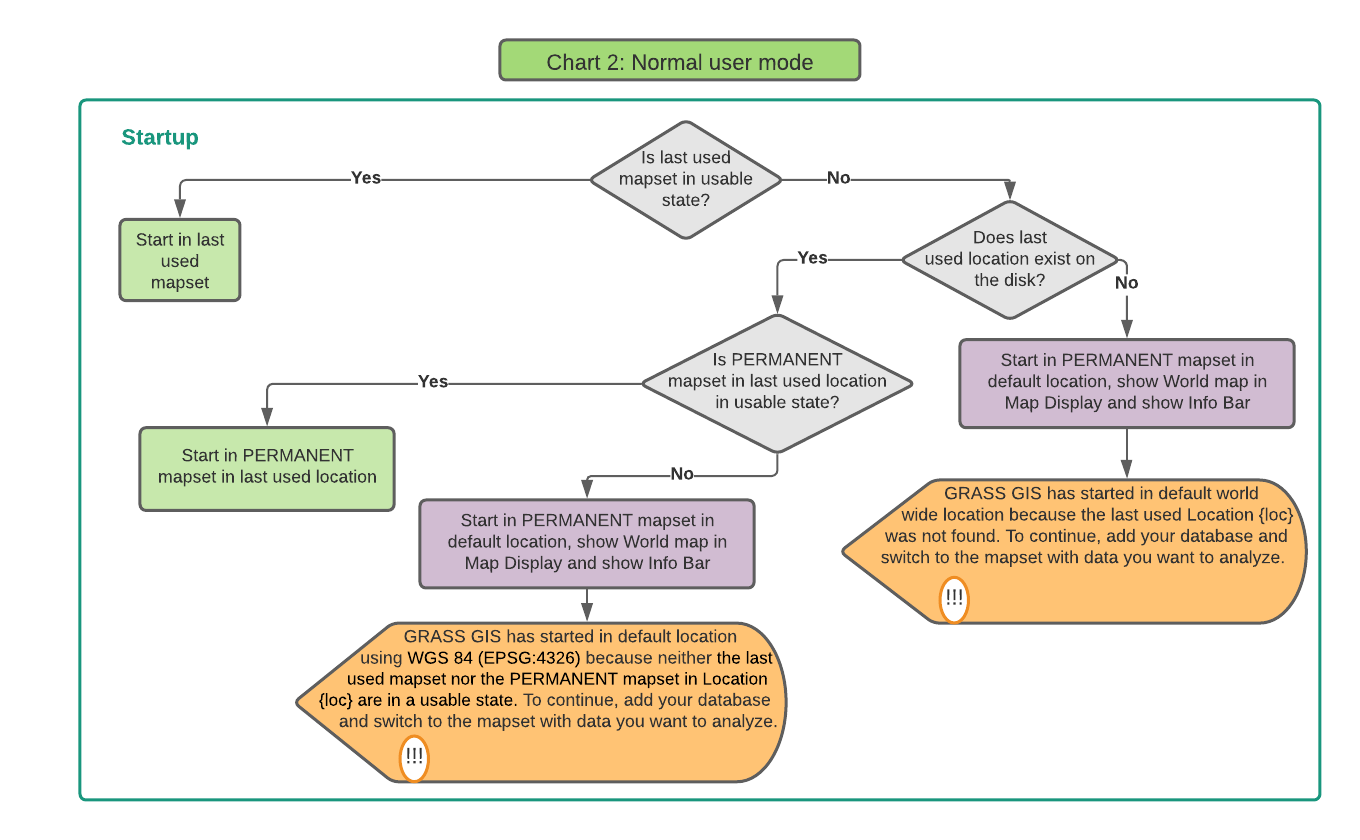
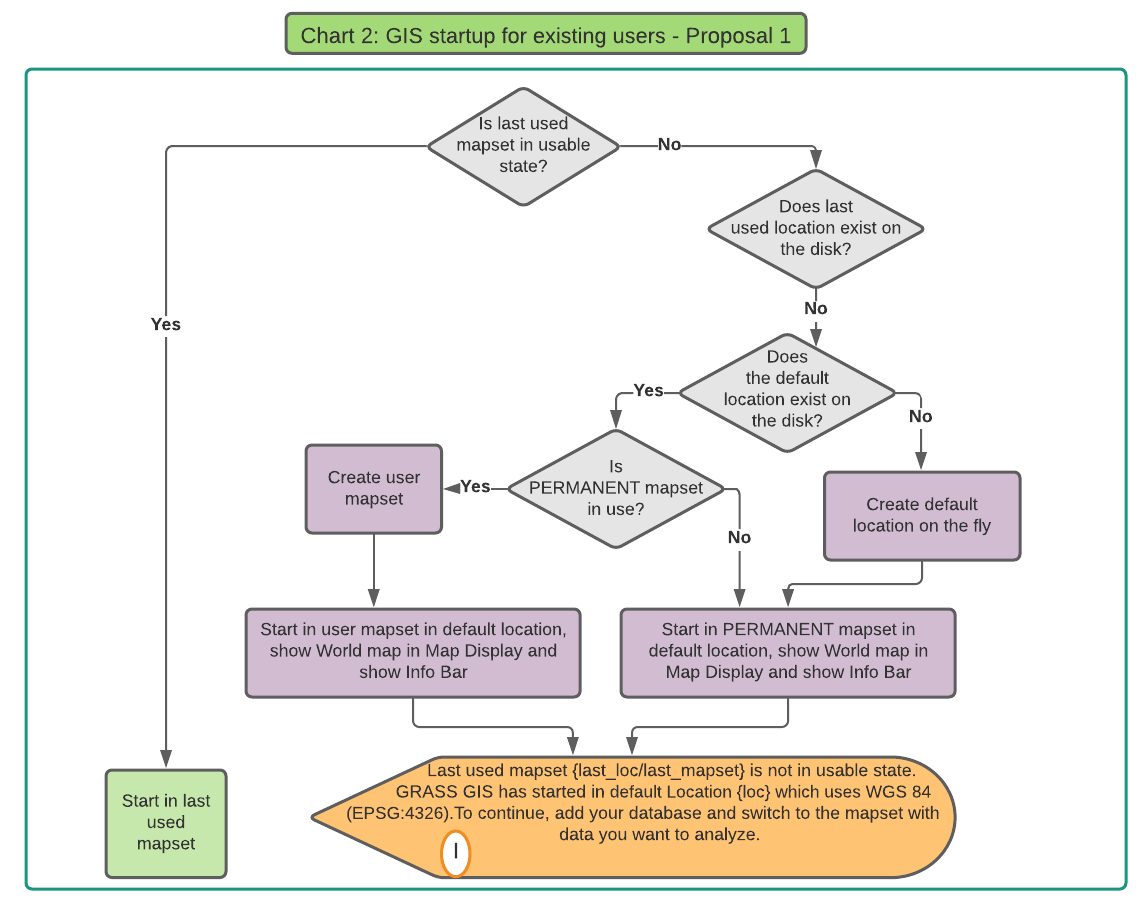
chapter 8 ready for review, introduction is not finished yet

diff --git a/text/linda-kladivova-dp-2021.tex b/text/linda-kladivova-dp-2021.tex
@@ -119,7 +119,7 @@
 
 \large
 \noindent
-The existing GRASS GIS software start-up mechanism could discourage new users from further working with this software or at least make it uncomfortable. This diploma thesis is built on the programming part performed in the summer of 2020 within the international Google Summer of Code program (GSoC) and uses two surveys to evaluate the benefits of significant changes that have taken place. The first part of the work focuses on a survey among intermediate users and compares the startup mechanism of the original GRASS GIS 7.8 version with the new solution introduced after GSoC which during normal startup cancels the concept of the startup window and its role is taken over by Data Catalog. The second part is oriented on newcomers and implements the first-time mode. A survey based on a simple task further examines whether the initial contact of the user with the software when using the first-time mode is more pleasant or not.
+The existing GRASS GIS software startup mechanism could discourage new users from further working with this software or at least make it uncomfortable. This diploma thesis is built on the programming part performed in the summer of 2020 within the international Google Summer of Code program (GSoC) and uses two surveys to evaluate the benefits of significant changes that have taken place. The first part of the work focuses on a survey among intermediate users and compares the startup mechanism of the original GRASS GIS 7.8 version with the new solution introduced after GSoC which during normal startup cancels the concept of the startup window and its role is taken over by Data Catalog. The second part is oriented on newcomers and implements the first-time mode. A survey based on a simple task further examines whether the initial contact of the user with the software when using the first-time mode is more pleasant or not.
 
 \vspace{2ex}
 \begin{Large}
@@ -241,12 +241,15 @@ Firstly I would like to thank my parents very much for their support during my s
 \large
 \setcounter{page}{13}  % nastaví čítač stránek od stránky Úvod na stránku č. 13
 
+\noindent According to the evaluation of the GISGeography journal, GRASS GIS is one of the best software we can meet in the world of open-source GIS software in terms of numerical GIS analysis. The history of GRASS, built for vector and raster geospatial management, geoprocessing, spatial modeling and visualization, dates back to 1982, when its development was started by the United States military. At the time of writing this thesis, the current stable version of the software is version 7.8, but as the number suggests, the planned version 8.0, which will be released in the spring of 2021, will introduce major changes. They are largely related to the GRASS graphical user interface (GUI).
 
+The implementation of changes and new GUI functionalities gradually leading to the breakthrough version 8.0 began in the summer of 2020, when the author participated in the global student program Google Summer of Code (GSoC), which inspires young developers to begin participating in open-source development. As also mentioned in the evaluation of the GISGeography journal, the main disadvantage of GRASS version 7.8 is mainly the clunky and dated user interface, defining projects on start-up and steep learning curve to get started. As we can see, these shorcomings are largely related to the current startup mechanism. So the task of GSoC was to change the sort of unfortunate GRASS startup mechanism so that it would be easier for first-time users to become familiar with GRASS.
 
-%% -------<<< Chapter 1: State of Art in the version 7.8 >>>-------\\%%%%%%%%%%%%%%%%%%%%%%%%%%%%%%%%%%%%
+After the changes within GSoC, the startup screen -  the biggest trick for new users, was partially removed. It means that it appears only in non-standard situations. The main role for the  data organization was taken over by the Data Catalog - a tree object, whose functionality was significantly expanded. Now the possibilities of managing data hiearchy components are even beyond the options previously available in the startup screen. Here, for the first time, a new concept of the default location (say`` demolocation '' in development slang) is introduced, which is offered to every first-time user.
 
+This work therefore follows up on the complex topic of creating a better GRASS GIS startup mechanism. The main part of the work consists of two surveys where the first one consists of two parts. The aim of the first part is to evaluate the benefits of significant changes among the GRASS community and at the same time to propose a final solution of the GRASS startup mechanism for the existing user, so that the old startup screen is permanently removed. The second part of the first survey focuses on the improvement of the startup mechanism for first-time users. It finds out what options of firsti-time help would be preferred in the GRASS community. The second survey then introduces the ``first-time mode'', which extends the concept of the default location with a set of information popups that help the user manage the first steps - creating a new location, importing data, etc. Based on the second survey, the design is modified and subsequently implemented.
 
-Changing the startup mechanism, which will make it easier for first-time users to become familiar with GRASS, has been one of the long-term goals of the development community around this software. This whole topic provoked heated discussions mainly because it was not clear whether to keep the startup screen or not.
+NOT FINISHED YET
 
 
 %% -------<<< Chapter 1: State of Art in the version 7.8 >>>-------\\%%%%%%%%%%%%%%%%%%%%%%%%%%%%%%%%%%%%
@@ -1299,7 +1302,7 @@ Examples of nominal qualitative data are the responses to questions of Multiple 
 
 Conversely, quantitative or numerical data can be characterized by a numerical value. Quantitative variables can be further classified as either discrete (those with a finite or countable number of possible values) or continuous (those with an infinite or un-countable number of possibilities). In the case of surveys conducted in this work, the Slider questions always have the same form - we measure the degree of agreement with the statement on a scale from 0 to 100. It is not a discrete variable, because we do not have any obvious categories from the beginning. Those classes have to be created. In this work, they were determined according to the SUS questionnaire: [0, 20] - Strongly disagree, (20, 40] - Disagree, (40, 60] - Neutral, (60, 80] - Agree and (80, 100] - Strongly agree.
 
-%% -------<<< Chapter 4: Analysis of the results of the first survey>>>-------\\%%%%%%%%%%%%%%%%%%%%%%%%%%%%%%%%%%%%
+%% -------<<< Chapter 7: Analysis of the results of the first survey>>>-------\\%%%%%%%%%%%%%%%%%%%%%%%%%%%%%%%%%%%%
 
 \newpage
 \vspace*{-1cm}
@@ -1307,7 +1310,7 @@ Conversely, quantitative or numerical data can be characterized by a numerical v
 \section{Analysis of the results of the first survey}
 \label{sec:qstat}
 
-\noindent The main part of this work consists of two questionnaires. The first questionnaire was released 23 October and stopped 29 October 2020. It has two separate parts. The first one contains six questions dealing with the improvement of the GRASS GIS startup mechanism and the assessment of the state after GSoC. The second part of the survey which is even more important for this master thesis contains 5 questions focusing on the enhancement of the newcomers' experience. In other words, it focuses on possibilities how to enrich existing Demolocation concept so that the new user can find his way around the software as quickly and conveniently as possible. The implementation part of this work is based on the second part of the first survey and then especially on the second survey, which was released roughly a month later and is analyzed in Section \ref{sec:2survey}.
+\noindent The main part of this work consists of two questionnaires. The first questionnaire was released 23 October and stopped 29 October 2020. It has two separate parts. The first one contains six questions dealing with the improvement of the GRASS GIS startup mechanism and the assessment of the state after GSoC. The second part of the survey which is even more important for this master thesis contains 5 questions focusing on the enhancement of the newcomers' experience. In other words, it focuses on possibilities how to enrich existing Demolocation concept so that the new user can find his way around the software as quickly and conveniently as possible. The implementation part of this work is based on the second part of the first survey and then especially on the second survey, which was released roughly a month later and is analyzed in Section \ref{sec:qstat2}.
 
 \subsection{Part 1: GRASS startup and Data Catalog}
 
@@ -1625,59 +1628,74 @@ The answers also point out some of the problems that users face without explicit
 \section{GRASS GIS Development Proposals}
 \label{sec:proposal}
 
-\newpage
-\vspace*{-1cm}
-\fancyhead[RE, RO]{\fancyplain{}{\small \sl{How to enhance first-time user experience}}}
-\subsection{How to enhance first-time user experience: Proposal}
+\noindent As described in the Introduction and in the subchapter \ref{sec:startup_concepts}, this work consists of 2 seemingly independent parts. The first part (the main part of this work) related to the second part of the first survey and the second survey improves the concept of default location by the so-called first-time user mode, which aims to improve the first-time user experience. The second part, related to the first part of the first survey, builds significantly on the changes made in the GSoC and addresses the shortcomings of the new startup mechanism. The first main topic of this work focuses exclusively on new users, while the second topic related to the complete removal of the original startup screen (so that it does not appear even in a situation where the last mapset is not in usable state) is a topic that affects all existing users.
+
+\subsection{How to enhance first-time user experience}
 \label{sec:proposal1}
 
+After running GRASS in the version after GSoC, the new user is redirected to the default location (demolocation) to the Data tab. Here he/she can see a project template containing a world map. (In the future, demolocation is likely to be enriched with additional maps.) After analyzing the second part of the first survey, it is more than evident that in order to make GRASS more user-friendly tool right from the outset, there is some form of help (whether in form of First Run Wizard or Info Bars) a necessity. Although the Data Catalog provides a visual idea of the hierarchical data structure in GRASS, there is no clue that would explain the concept of defaut location, nor locations and mapsets in general. But it's not just a misunderstanding of the GRASS data hierarchy, as the developers initially thought. Users also have problems with the meaning of tabs, especially with the Modules tab. The responses to Question 5 also point out that the advice on the data import would be usefull as well.
 
-Jak bylo popsáno v úvodu a v podkapitole Suggestions, tato práce se skládá ze 2 na první pohled nezávislých částí. První část (hlavní část této práce) související s druhou části prvního průzkumu a s druhým průzkumem vylepšuje koncept defaultní lokace o tzv. first-time user mode, který má za úkol vylepšit first-time user experience.  Druhá část související s první částí prvního průzkumu výrazně navazuje na změny provedené v rámci GSoC a odstraňuje nedostatky nového startovacího mechanismu, které v rámci GSoC nebyly zcela dořešeny. První hlavní téma této práce se soustředí výhradně na nové uživatele, zatímco druhé téma související s úplným odstraněním původní startovací obrazovky (aby se neobjevovala ani i v situaci kdy last mapset is not in usable state) je tématem, které se dotkne všech stávajících uživatelů.
-
-
+In the most likely scenario, as a new GRASS user we would try to import our own data, display it in the required design and perform analyzes. To do this, in the first step, we should create a location in the coordinate system of their data. In the second step, depending on the data type, we can already import vector or raster data. In the third step, we can visit the Modules tab if want to analyze the data straight away. However, if we only want to change the layer properties, we should go to the Display tab.
 
 \vspace{0.3cm}
 \begin{figure}[hbt!] 
 \begin{center}
-\includegraphics[width=16cm]{../pictures/first-time_user_diagram.pdf} 
-\caption[Info Bars Flowchart for first-time user]{Info Bar Flowchart for first-time user (Source: Personal collection)}
+\includegraphics[width=15.5cm]{../pictures/first-time_user_diagram.png} 
+\caption[Flowchart of First-time user mode]{Flowchart of First-time user mode (Source: Personal collection)}
 \label{fig:first-time_user_diagram}
 \end{center}
 \end{figure}
 
-\newpage
-\vspace*{-1cm}
+For these situations, the author has proposed the sequence of small hints which can be seen in Figure \ref{fig:first-time_user_diagram} and will be the content of the Info Bar. Those texts displayed in the orange box essentially suggest a special first-time user mode, which we can also perceive as a First Run Wizard in terms of continuity. If the user follows the advice in the Info Bar, he will eventually meet all three advice in that order. So it is not possible to skip this mode as in Zoner Photo Studio, but if we do not follow the advice, we can avoid it. Except hints, The Info Bar includes button(s) that offer the user the necessary functions without the need to search. A more detailed description of the first-time mode, including examples of mockups, is contained in the section \ref{sec:qstat2}.
+
 \fancyhead[RE, RO]{\fancyplain{}{\small \sl{How to create better GRASS GIS startup}}}
 \subsection{How to create better GRASS GIS startup}
-\label{sec:proposal1}
+\label{sec:proposal2}
 
 In the first part of the first survey, Q4 and Q5 mainly concern the Data Catalog and Management Icons, which is definitely important for future software development, however, the implementation is beyond the scope of this work. From the point of view of this work, the most important question is number 2, which solves the case when GRASS wants to start in the last used mapset, however, this mapset is not available for one of these reasons - it has either been deleted or it is used by another process. Unfortunately, this question was not drafted very cleverly in terms of the answer options offered, which is evident from the large number of open-ended responses.
 
-At first glance, the number of respondents who would choose the modernized version of startup screen prevails. However, only 2 out of 10 open-ended responses suggest some form of startup screen. Although the total number of respondents proposing a startup screen is 34 (32 + 2), ie. 65 \% percent of all respondents, we can not talk about a significantly majority opinion. In addition, in open-ended responses, ideas with some form of information or error message very often appear, which is a very interesting variant, which the author of the work did not think of when compiling the survey. In terms of implementation complexity, however, it is a simple option, as the proposed Info Bar for first-time users can cover both purposes - it will primarily serve as a help for new users and secondarily it can serve as an information channel for existing users. In the latter context, they can inform them about non-standard situations and speed up user's work (e.g. when creating a location, it will automatically offer the creation of a mapset, etc.). The Flowchart simulating the startup mechanism of an existing GRASS GIS user is shown in Figure \ref{fig:normal_user_diagram}.
+At first glance, the number of respondents who would choose the modernized version of startup screen prevails. However, only 2 out of 10 open-ended responses suggest some form of startup screen. Although the total number of respondents proposing a startup screen is 34 (32 + 2), ie. 65 \% percent of all respondents, we can not talk about a significantly majority opinion. In addition, in open-ended responses, ideas with some form of information or error message very often appear, which is a very interesting variant, which the author of the work did not think of when compiling the survey. In terms of implementation complexity, however, it is a simple option, as the proposed Info Bar for first-time users can cover both purposes - it will primarily serve as a help for new users and secondarily it can serve as an information channel for existing users. In the latter context, the Info Bar can inform users about non-standard situations and speed up their work (e.g. when creating a location, it will automatically offer the creation of a mapset, etc.). 
 
- As we can see, if the last used mapset cannot be used, we come across two different situations:
+The display of the Info Bar in a non-standard situation is related to the existing startup mechanism, which still has not completely got rid of the old startup screen. If we start GRASS GIS for the first time, we meet a default location. In other cases, GRASS tries to boot into the last used mapset. However, there may be a problem where the last used mapset is not in usable state. Two suggestions on how to solve this situation were compiled, which are presented using Flowcharts in Figures \ref{fig:normal_user_diagram} and \ref{fig:normal_user_diagram2}, where the second proposal is only an extension of the first proposal.
 
-\noindent \textbf{Either the last used location (as the parent of the last used mapset) is on the disk or it is not.} 
-
-\begin{itemize}
-\item If the last used location is not found, it means only one thing, the user deleted the location, so it is not possible to find the last used mapset. In this case, there is nothing to choose from but start GRASS to the default location.
-\item If the last used location is found and at the same time the PERMANENT mapset is not used by another process in this location, GRASS can start in this PERMANENT mapset.
-\end{itemize}
-
-The default location is therefore taken as the last unwelcome option employed only when the last used location either does not exist at all or exists, but it is not possible to open the last used mapset or PERMANENT mapset. In both cases, the user will see the notification in the form of a warning Info Bar saying the reason of start in default location and advicing a user on what to do next in this situation. The solution is simple as in the new version of the Data Catalog after GSoC it is very easy to add a new database to the Data Catalog, create a new location, etc. 
-
-Since these messages are closely related to the Data Catalog and data hierarchy in GRASS GIS in general, we can use exactly the same object of Info Bar which is used for messages intended for first-time users. This Info Bar is created each time the user starts GRASS GIS and it will only be up to the situation what message will be displayed. During the work, the user can then close the Info Bar, however, in reality it is only hidden and in another defined situation, it  may appear again.
+In the first proposal in Figure \ref{fig:normal_user_diagram} we do not consider the last used location at all. If the last used mapset is in an unusable state (either because it was deleted or used by another process), the user will always be redirected to the default location (demolocation). We do not prohibit the user from working in the default location as in the normal location. Then, however, there is a risk that the PERMANENT mapset in demolocation can be used by another process. This situation can occur, for example, when a user starts two GRASS sessions. The first instance starts in the last used mapset, but the second instance can no longer start this way.
 
 \vspace{0.3cm}
 \begin{figure}[hbt!] 
 \begin{center}
-\includegraphics[width=17cm]{../pictures/normal_user_diagram.png} 
-\caption[Info Bars Flowchart for any existing user]{Info Bar Flowchart for any existing user (Source: Personal collection)}
+\includegraphics[width=16.5cm]{../pictures/normal_user_diagram.png} 
+\caption[Flowchart of GIS startup for existing users: Proposal 1]{Flowchart of GIS startup for existing users: Proposal 1 (Source: Personal collection)}
 \label{fig:normal_user_diagram}
 \end{center}
 \end{figure}
 
-We could also think of other situations where the Info Bar could be displayed to users. For example, when creating a new location, it can be assumed that the user will subsequently request the creation of a mapset. Similarly, when creating a database, it can be assumed that the user will want to create a new location in the next step. The notifications could therefore be a kind of guide not only for the initial user, but also for more experienced users. Their purpose would be to speed up the user's work related to organization of their data.
+\noindent It is therefore important to check whether the PERMANENT mapset in the default location is in the usable state and if it is not, we need to create a new mapset in the default location, into which GRASS will start in case of emergency. This mapset can be named after the user, which is a concept proposed in the second survey as a standard solution for first-time users. (In the end, it was not implemented since the second survey found that the existence of a user mapset in the standard version of default location is rather confusing than useful). 
+
+When starting in the default location, the user will see the notification in the form of a Info Bar saying the reason of start in default location and advicing a user on what to do next in this situation. The solution is simple as in the new version of the Data Catalog after GSoC it is very easy to add a new database to the Data Catalog, create a new location, etc. The Info Bar can therefore have the character of an information icon, as in the case with help for first-time users.
+
+The Proposal 1 can be extended with another idea. To offer the user the most similar state to last GRASS run, we can start GRASS in the PERMANENT mapset of the last used location. However, it presents a new concept, which assumes that the PERMANENT mapset is some kind of default mapset. This would mean incorporating this idea into other segments of GRASS. For example, in the Data Catalog, there should be a possibility in the Data to switch to location (its PERMANENT) from the location node. The default location is here taken as the last unwelcome option employed only when the last used location either does not exist at all or exists, but it is not possible to open the last used mapset or PERMANENT mapset. 
+
+\vspace{0.3cm}
+\begin{figure}[hbt!] 
+\begin{center}
+\includegraphics[width=17cm]{../pictures/normal_user_diagram2.png} 
+\caption[Flowchart of GIS startup for existing users: Proposal 2]{Flowchart of GIS startup for existing users: Proposal 2 (Source: Personal collection)}
+\label{fig:normal_user_diagram2}
+\end{center}
+\end{figure}
+
+\noindent However, the disadvantage of the second solution is that the GRASS GIS startup process would not be consistent. The first solution is always consistent - run a demolocation in each non-standard situation and provide the same message in Info Bar. Since this massage is closely related to the Data Catalog and data hierarchy in GRASS GIS in general, we can use exactly the same object of Info Bar which is used for messages intended for first-time users. 
+
+We could also think of other situations where the Info Bar could be displayed to users (see Figure \ref{fig:other_situations}). For example, when creating a new location, it can be assumed that the user will subsequently request the creation of a mapset. Similarly, when creating a database, it can be assumed that the user will want to create a new location in the next step. The notifications could therefore be a kind of guide not only for the initial user, but also for more experienced users. Their purpose would be to speed up the user's work related to organization of their data. It could also be the same Info Bar object placed in the data tab, however, this time the type would not be informatve, but questional.
+
+\vspace{0.3cm}
+\begin{figure}[hbt!] 
+\begin{center}
+\includegraphics[width=17cm]{../pictures/other_situations.png} 
+\caption[Flowchart of other situations where Info Bar could be helpful]{Flowchart of other situations where Info Bar could be helpful (Source: Personal collection)}
+\label{fig:other_situations}
+\end{center}
+\end{figure}
 
 %% -------<<< Chapter 6: Analysis of the results of the second survey>>>-------\\%%%%%%%%%%%%%%%%%%%%%%%%%%%%%%%%%%%%
 
@@ -1691,7 +1709,7 @@ We could also think of other situations where the Info Bar could be displayed to
 
 The questionnaire is based on a simple task. A user has vector data of rivers in the Czech Republic in the shapefile format in the coordinate system S-JTSK/Krovak East North (EPSG:5514) and they would like to import this data into GRASS and perform a simple task - extract a river called Otava and save it in a separate layer. Unfortunately, due to external epidemiological circumstances, this task could not be tested among GRASS beginners directly on the software. Thus, a survey was designed that simulates three key situations that, according to the diagrams in the previous chapter, a new user is likely to get into and which, according to the results of the second part of the first survey, are crucial. In these situations, the respondent is presented with software mockups of Info Bars which (if they are placed in the right place at the right time and correctly designed in terms of text) should lead to the right decision on how to continue in work. In the following text, the term \textit{default location} is preferred to the term \textit{demolocation}, which is more of a technical (developer) nature. Semantically, these concepts do not differ.
 
-\textbf{The first situation} shown in the mockup in Fig. \ref{fig:grass_infobar_1} shows the GRASS GIS immediately after startup. At this point, a user needs find their way around in a completely unknown environment as quickly as possible and import their data so that he can look at it and possibly perform analyzes. The software starts in the Data tab to the default location (so-called demolocation), which in the Map Display window displays the world map in the WGS 84 system (EPSG:4326). The task of demolocation is to give the user a certain sense of security by showing a map and at the same time an example of data organization in the Data Catalog, which is now the center of GRASS. At the first moment, it is therefore essential for the user to at least passively understand the principle of the GRASS data hierarchy, which is well visible in the Data Catalog and is also briefly explained in the first Info Bar. In order to properly figure out the first situation, a user must realize that the data he wants to import into the software has a different coordinate system (EPSG:5514) than the one defined for the default location (EPSG:4326). This means that if a user understands the meaning of the location, he will create a new location that will have the coordinate system of the data he wants to import.
+\textbf{The first situation} shown in the mockup in Fig. \ref{fig:grass_infobar_1} shows the GRASS GIS immediately after startup. At this point, a user needs find their way around in a completely unknown environment as quickly as possible and import their data so that he can look at it and possibly perform analyzes. The software starts in the Data tab to the default location, which in the Map Display window displays the world map in the WGS 84 system (EPSG:4326). The task of demolocation is to give the user a certain sense of security by showing a map and at the same time an example of data organization in the Data Catalog, which is now the center of GRASS. At the first moment, it is therefore essential for the user to at least passively understand the principle of the GRASS data hierarchy, which is well visible in the Data Catalog and is also briefly explained in the first Info Bar. Terms are also specified in the text using new planned names in parentheses. In order to properly figure out the first situation, a user must realize that the data he wants to import into the software has a different coordinate system (EPSG:5514) than the one defined for the default location (EPSG:4326). This means that if a user understands the meaning of the location, he will create a new location that will have the coordinate system of the data he wants to import.
 
 \vspace{0.3cm}
 \begin{figure}[hbt!] 
@@ -2026,7 +2044,7 @@ wxPython is a cross-platform toolkit which means that the same program can be ru
 \noindent
 \large
 
-
+                         Info Bar se vytvoří created each time the user starts GRASS GIS and it is only up to the situation what message is displayed.  During the work, the user can then close the Info Bar but in reality it is only hidden and in another defined situation it may appear again.
  Info Bar je objekt, který se vytvoří vždy při každém startu GRASS GIS a bude pouze na dané situaci, jaké zprávy bude zobrazovat. Během práce poté uživatel může ikonku zavřít, nicméně reálně se pouze skryje a v další vydefinované situaci se může nápověda znovu objevit.
 
 %% -------<<< Chapter: Discussion >>>-------\\%%%%%%%%%%%%%%%%%%%%%%%%%%%%%%%%%%%%
